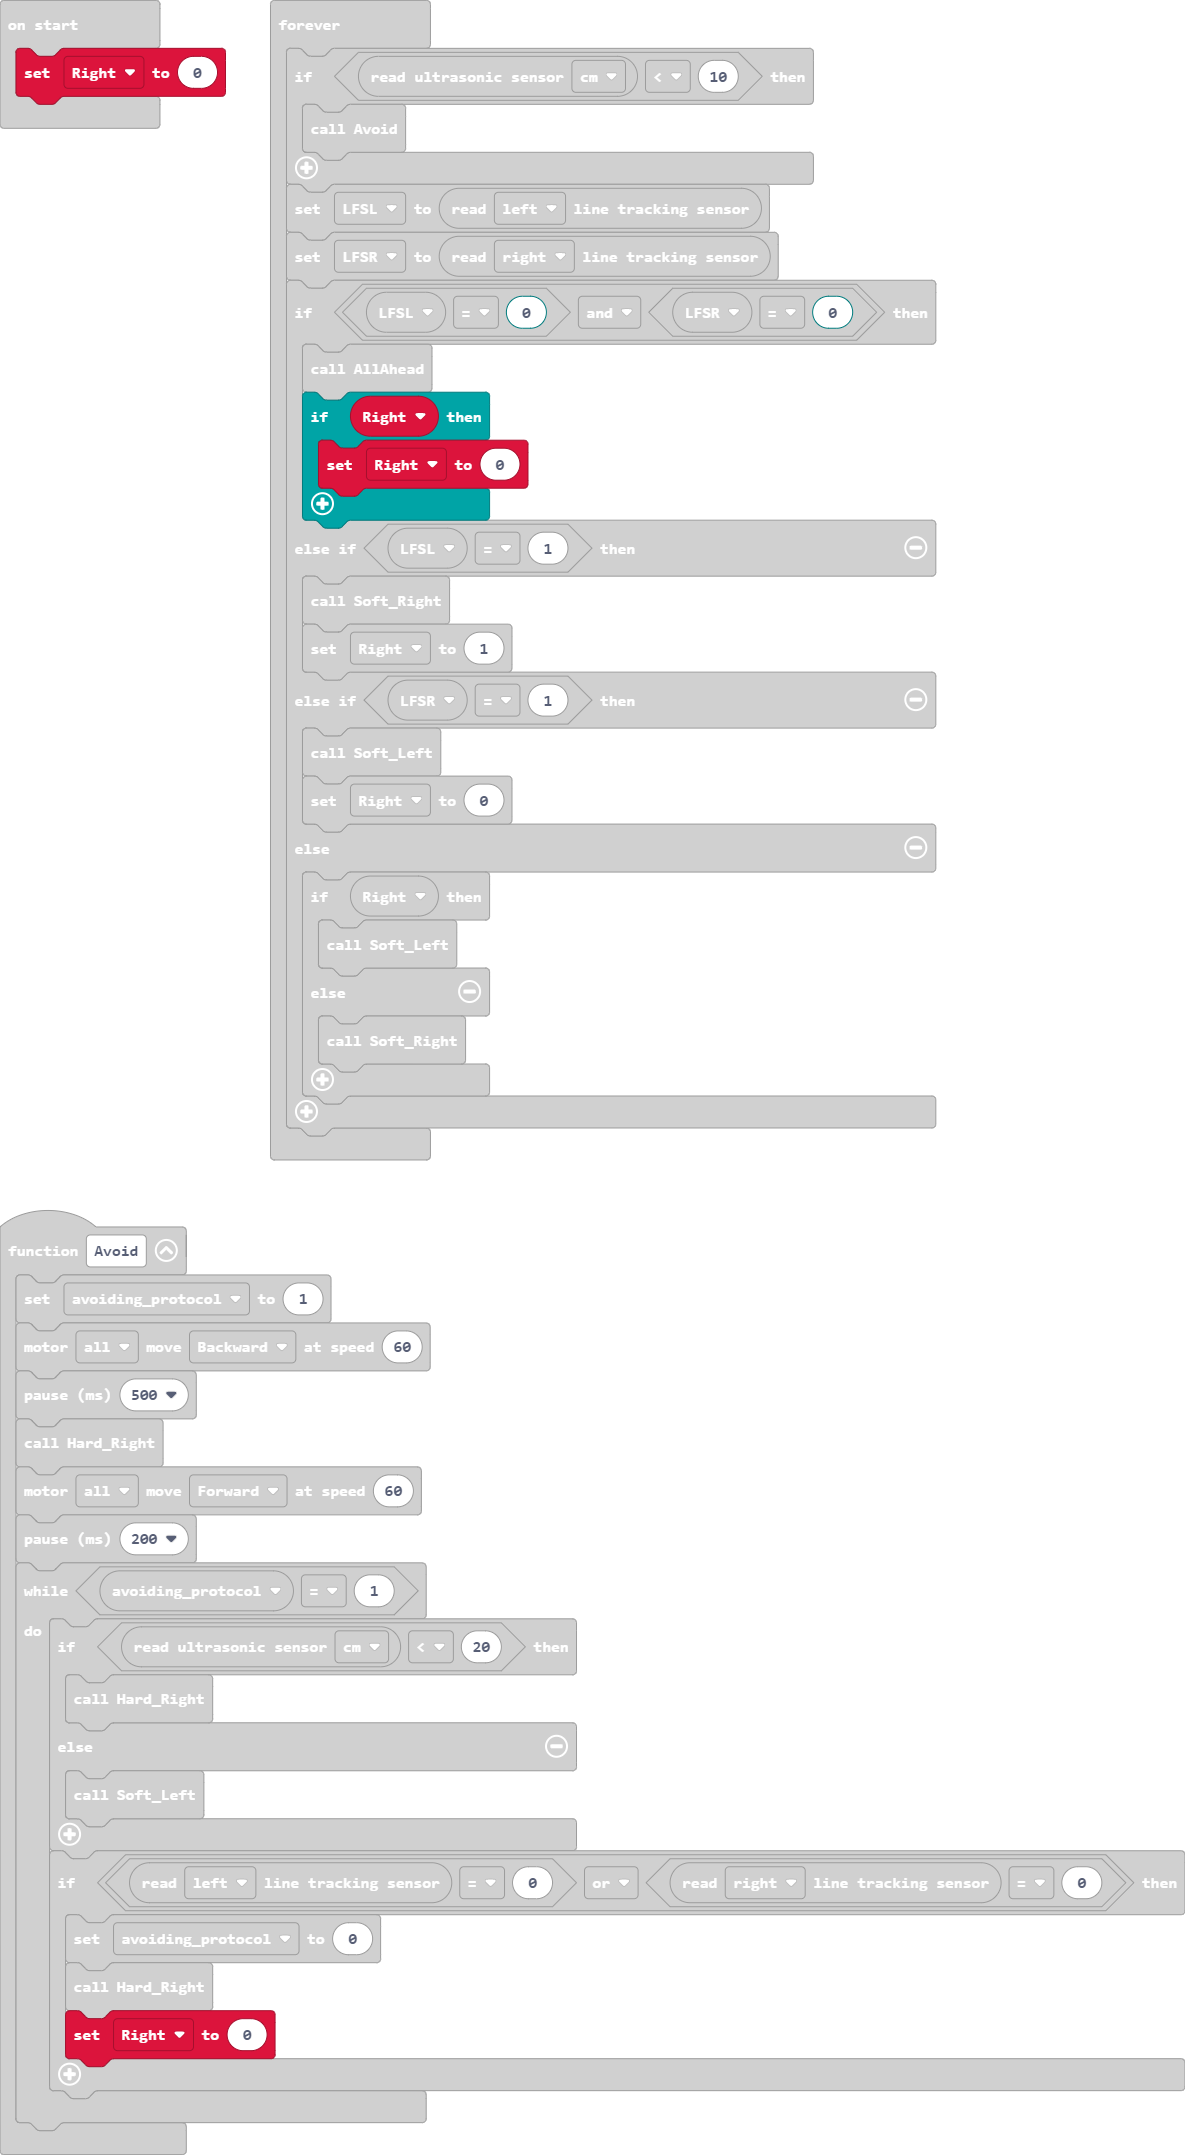
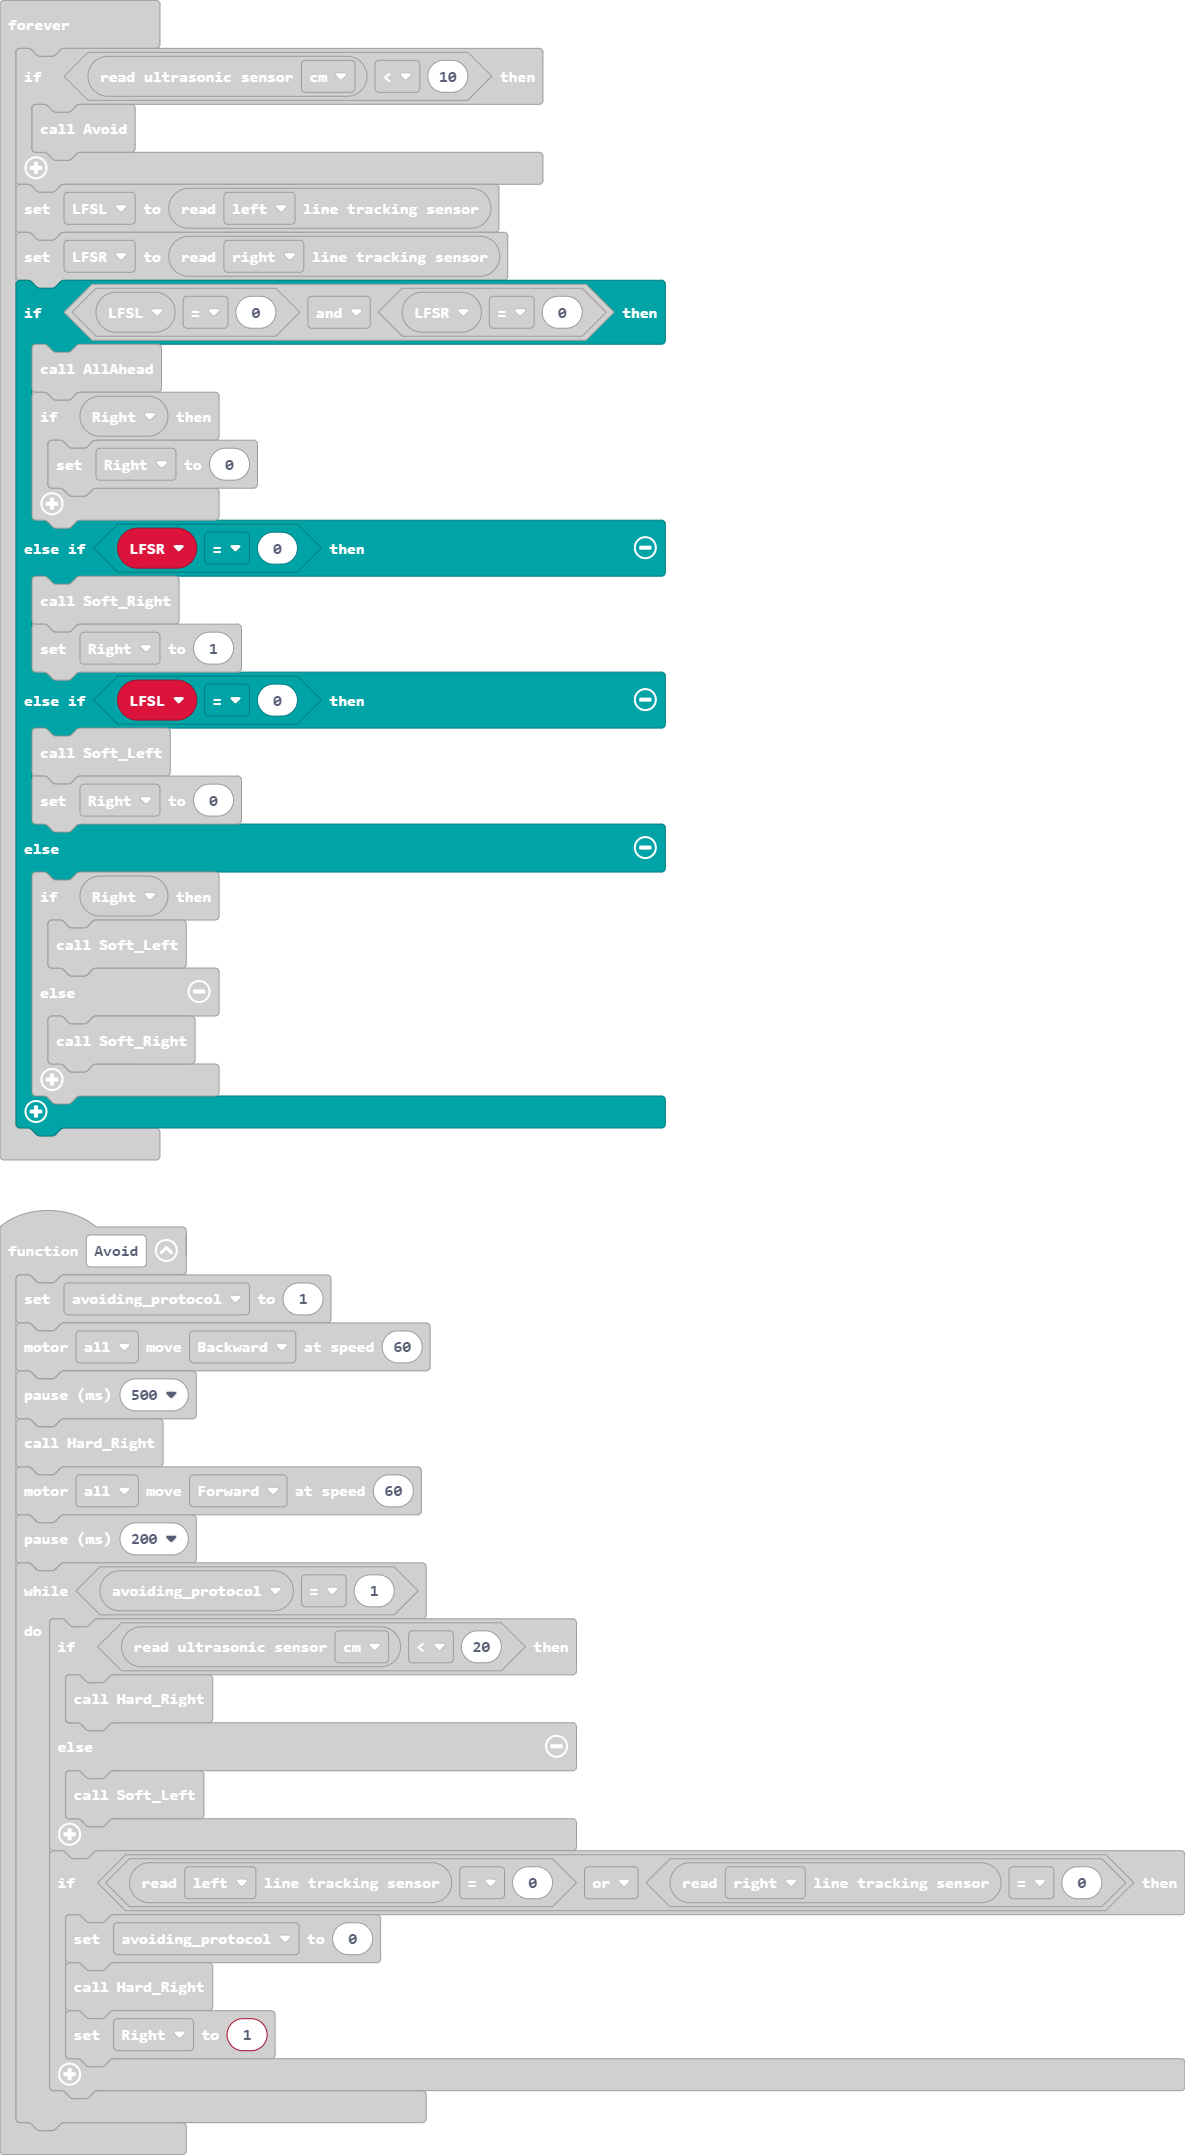
Update main.blocks, main.ts

Changed region(s): [[0.0, 0.0, 0.8118, 0.5596], [0.0312, 0.9327, 0.2498, 0.9638]]

diff --git a/main.ts b/main.ts
@@ -43,7 +43,7 @@ function Avoid () {
         if (maqueen.readPatrol(maqueen.Patrol.PatrolLeft) == 0 || maqueen.readPatrol(maqueen.Patrol.PatrolRight) == 0) {
             avoiding_protocol = 0
             Hard_Right()
-            Right = 0
+            Right = 1
         }
     }
 }
@@ -63,10 +63,10 @@ basic.forever(function () {
         if (Right) {
             Right = 0
         }
-    } else if (LFSL == 1) {
+    } else if (LFSR == 0) {
         Soft_Right()
         Right = 1
-    } else if (LFSR == 1) {
+    } else if (LFSL == 0) {
         Soft_Left()
         Right = 0
     } else {
